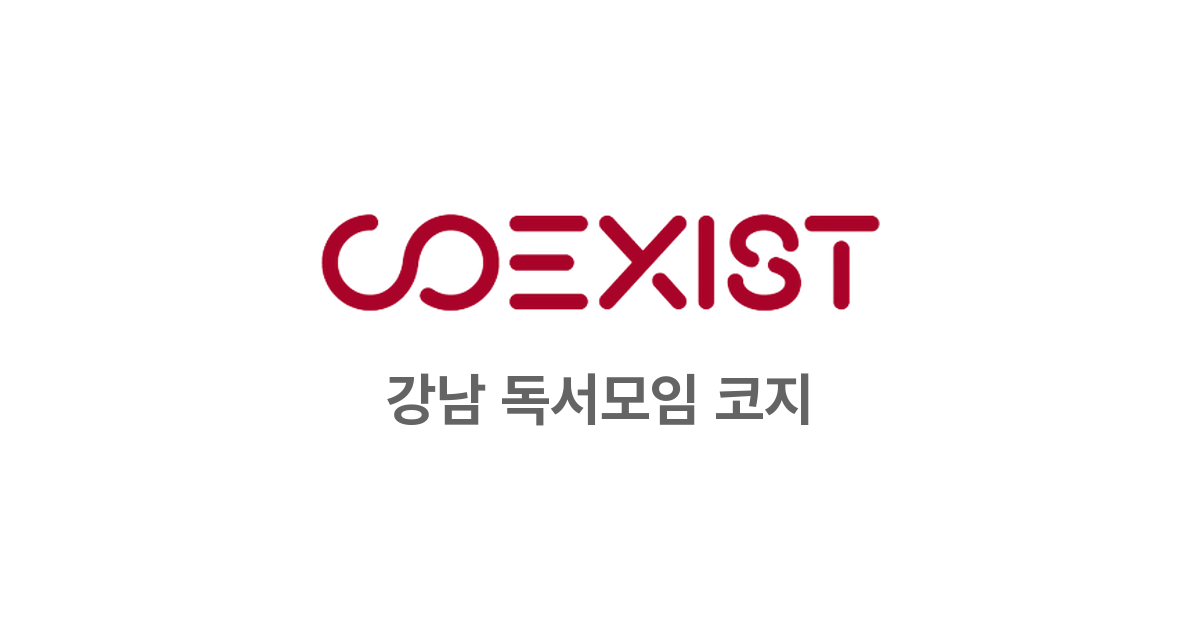
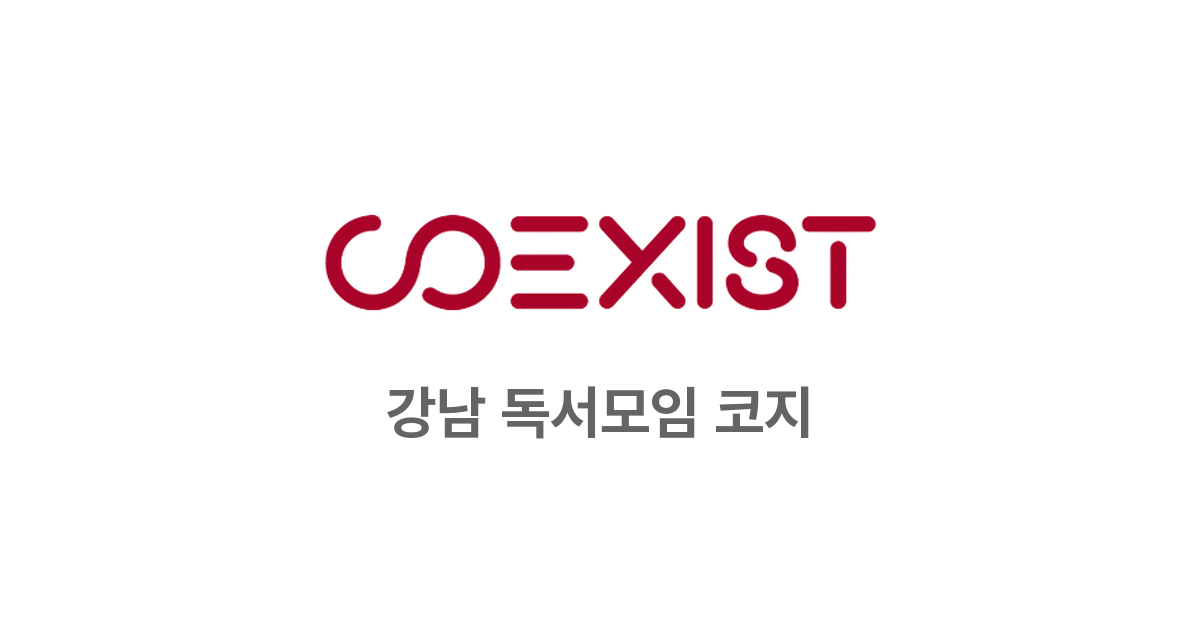
COEXIST 로고 여백 제거, 히어로 공백 대폭 축소

diff --git a/index.html b/index.html
@@ -112,8 +112,8 @@ nav button.active {
   position: relative; overflow: hidden;
 }
 .hero-logo {
-  height: 176px; width: auto;
-  margin-bottom: 6px;
+  height: 60px; width: auto;
+  margin-bottom: 16px;
   filter: brightness(0) invert(1);
   opacity: .92;
 }
@@ -401,8 +401,8 @@ footer strong { color: var(--gold-l); font-weight: 700; }
   .nav-kakao svg { display: none; }
   .hero { padding: 8px 16px 10px; }
   .hero-logo {
-    height: auto; width: 70%; max-width: 260px;
-    margin-bottom: 4px;
+    height: 44px; width: auto; max-width: 280px;
+    margin-bottom: 12px;
   }
   .hero h1 { font-size: 1.4rem; }
   .hero-slogan { font-size: .85rem; margin-bottom: 24px; }
